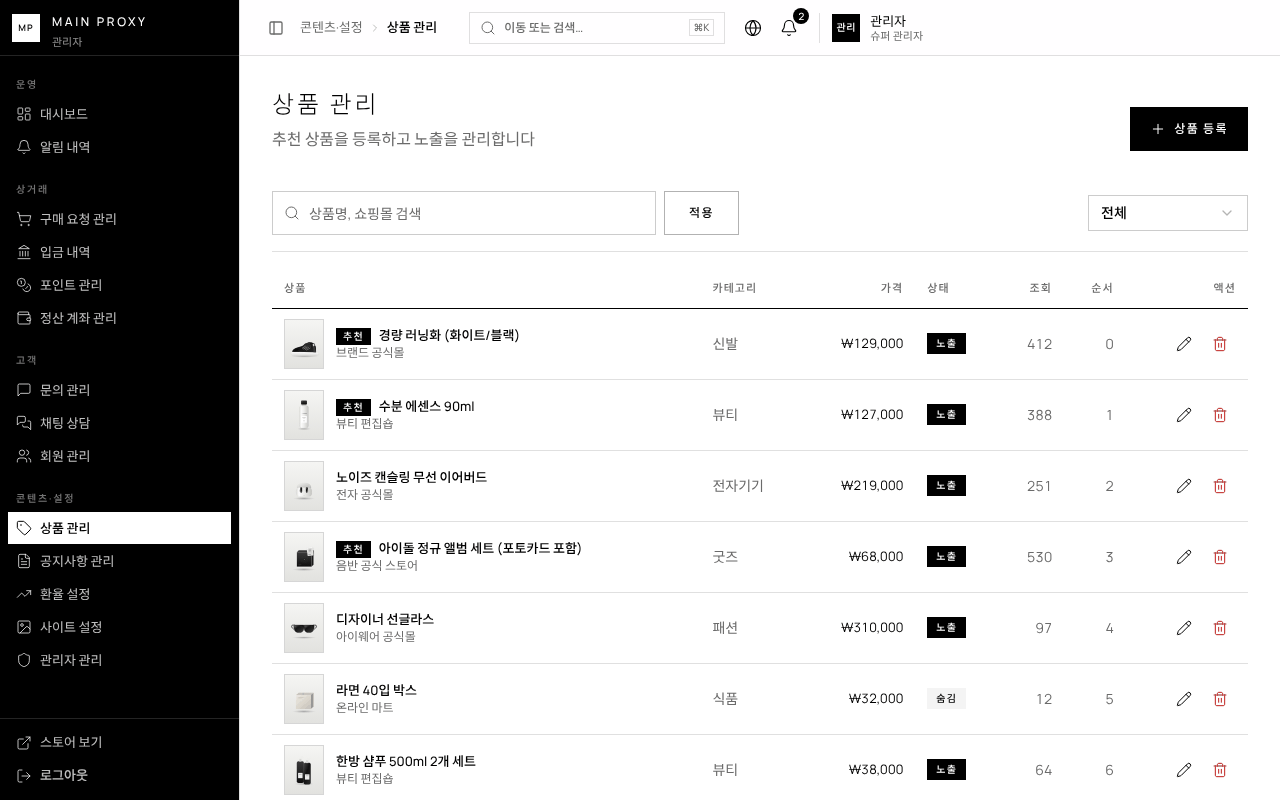
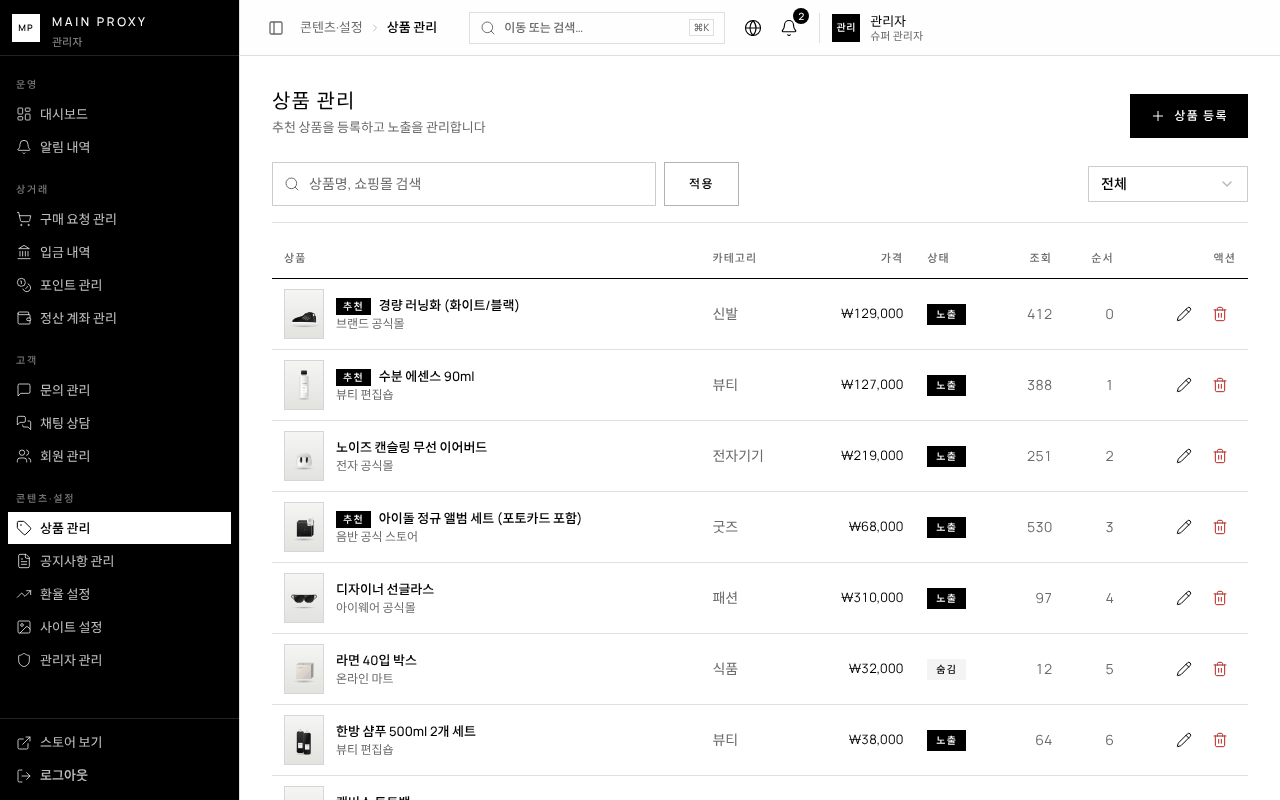
polish: denser console page headers, translated ledger labels, chat timestamps
- Console pages open with a 20px title and a 13px line under it (scoped
  through data-slot hooks on PageHeader and an .admin-console override),
  so lists start higher without touching the storefront's headers
- Deposit ledger: status chips, badges, the type column and the detail
  dialog show translated labels (대기/확정/취소/실패, 입금/정산/환불) in
  ko/ru/en instead of raw enum names
- Chat console: room timestamps follow the locale ("10월 29일 오전 09:12")
  instead of the browser default long form
- README admin screenshots refreshed; E2E smoke 38/38

Claude-Session: https://claude.ai/code/session_014KnJHiZdcZjP839o8GfUbF

diff --git a/front/src/pages/admin/AdminBankTransfers.tsx b/front/src/pages/admin/AdminBankTransfers.tsx
@@ -77,26 +77,31 @@ function isFullyProcessedRoot(e: TransferLedgerEntry): boolean {
 }
 
 /** Pending is an outline, confirmed a black fill, cancelled/failed the destructive outline. */
-function LedgerStatusBadge({ status }: { status: TransferLedgerStatus }) {
-  if (status === "CONFIRMED") return <Badge>{status}</Badge>;
+function LedgerStatusBadge({ status, label }: { status: TransferLedgerStatus; label: string }) {
+  if (status === "CONFIRMED") return <Badge>{label}</Badge>;
   if (status === "CANCELLED" || status === "FAILED") {
     return (
       <Badge variant="outline" className={DESTRUCTIVE_OUTLINE}>
-        {status}
+        {label}
       </Badge>
     );
   }
-  return <Badge variant="outline">{status}</Badge>;
+  return <Badge variant="outline">{label}</Badge>;
 }
 
 export default function AdminBankTransfers() {
   const { t, locale } = useTranslation();
   const isSuper = getAdminRole() === "SUPER_ADMIN";
+  const statusLabel = (status: TransferLedgerStatus) => t(`admin.bank.status.${status}`);
+  const typeLabel = (type: string) => {
+    const label = t(`admin.bank.type.${type}`);
+    return label === `admin.bank.type.${type}` ? type : label;
+  };
   const filterChips: { value: StatusChipValue; label: string }[] = [
     { value: "all", label: t("admin.bank.filterAll") },
-    { value: "PENDING", label: "PENDING" },
-    { value: "CONFIRMED", label: "CONFIRMED" },
-    { value: "CANCELLED", label: "CANCELLED" },
+    { value: "PENDING", label: statusLabel("PENDING") },
+    { value: "CONFIRMED", label: statusLabel("CONFIRMED") },
+    { value: "CANCELLED", label: statusLabel("CANCELLED") },
   ];
   const [rows, setRows] = useState<TransferLedgerEntry[]>([]);
   const [loading, setLoading] = useState(true);
@@ -415,7 +420,7 @@ export default function AdminBankTransfers() {
                   <TableCell className="max-w-[220px] truncate" title={r.userEmail ?? ""}>
                     {r.userEmail ?? "—"}
                   </TableCell>
-                  <TableCell>{r.entryType}</TableCell>
+                  <TableCell>{typeLabel(r.entryType)}</TableCell>
                   <TableCell className="text-right figure">
                     <span className="font-medium">
                       {r.amount.toLocaleString(locale === "en" ? "en-US" : "ko-KR")} {r.currency}
@@ -431,7 +436,7 @@ export default function AdminBankTransfers() {
                   </TableCell>
                   <TableCell>
                     <div className="flex flex-wrap items-center gap-1">
-                      <LedgerStatusBadge status={r.status} />
+                      <LedgerStatusBadge status={r.status} label={statusLabel(r.status)} />
                       {isFullyProcessedRoot(r) ? (
                         <Badge variant="secondary">{t("admin.bank.ledger.processed")}</Badge>
                       ) : null}
@@ -538,7 +543,7 @@ export default function AdminBankTransfers() {
                   {
                     key: "type",
                     label: t("admin.bank.ledger.detail.type"),
-                    value: detail.entryType,
+                    value: typeLabel(detail.entryType),
                   },
                   {
                     key: "amount",
@@ -563,7 +568,7 @@ export default function AdminBankTransfers() {
                   {
                     key: "status",
                     label: t("admin.bank.ledger.detail.status"),
-                    value: <LedgerStatusBadge status={detail.status} />,
+                    value: <LedgerStatusBadge status={detail.status} label={statusLabel(detail.status)} />,
                   },
                   {
                     key: "settlementAccount",

diff --git a/front/src/components/page/PageHeader.tsx b/front/src/components/page/PageHeader.tsx
@@ -21,7 +21,7 @@ type PageHeaderProps = {
 /** Standard page opening: light large title, muted description, actions on the right. */
 export function PageHeader({ title, description, actions, back, meta, align = "start", className }: PageHeaderProps) {
   return (
-    <header className={cn("mb-8 md:mb-10", align === "center" && "text-center", className)}>
+    <header data-slot="page-header" className={cn("mb-8 md:mb-10", align === "center" && "text-center", className)}>
       {back ? (
         <Link
           to={back.to}
@@ -38,9 +38,12 @@ export function PageHeader({ title, description, actions, back, meta, align = "s
         )}
       >
         <div className="min-w-0">
-          <h1 className="page-title">{title}</h1>
+          <h1 data-slot="page-title" className="page-title">{title}</h1>
           {description ? (
-            <p className={cn("mt-2 max-w-2xl text-sm text-muted-foreground md:text-base", align === "center" && "mx-auto")}>
+            <p
+              data-slot="page-description"
+              className={cn("mt-2 max-w-2xl text-sm text-muted-foreground md:text-base", align === "center" && "mx-auto")}
+            >
               {description}
             </p>
           ) : null}

diff --git a/front/src/pages/admin/AdminChat.tsx b/front/src/pages/admin/AdminChat.tsx
@@ -236,7 +236,7 @@ export default function AdminChat() {
                           {t('admin.chat.userLabel')} <span className="figure">#{room.userId}</span>
                         </span>
                         <span className="shrink-0 text-[11px] text-muted-foreground figure">
-                          {new Date(room.updatedAt).toLocaleString()}
+                          {formatDate(room.updatedAt, locale, { month: 'short', day: 'numeric', hour: '2-digit', minute: '2-digit' })}
                         </span>
                       </span>
                       <span className="mt-1 flex items-center justify-between gap-3">

diff --git a/front/src/styles/theme.css b/front/src/styles/theme.css
@@ -276,6 +276,21 @@
   }
 }
 
+/* Console pages open denser than the store: a smaller title, a 13px line under it, less air. */
+.admin-console [data-slot="page-header"] {
+  margin-bottom: 1.5rem;
+}
+.admin-console [data-slot="page-title"] {
+  font-size: 1.25rem;
+  font-weight: 400;
+  letter-spacing: 0.06em;
+  line-height: 1.3;
+}
+.admin-console [data-slot="page-description"] {
+  margin-top: 0.25rem;
+  font-size: 13px;
+}
+
 /* City labels in the hero artwork: hidden on short phones, where the headline takes the whole hero. */
 @utility hero-label {
   @media (max-width: 767px) and (max-height: 720px) {

diff --git a/front/src/components/layouts/AdminLayout.tsx b/front/src/components/layouts/AdminLayout.tsx
@@ -244,7 +244,7 @@ export default function AdminLayout() {
           </div>
         </header>
 
-        <main className="flex-1 overflow-auto">
+        <main className="admin-console flex-1 overflow-auto">
           <div className="mx-auto w-full max-w-7xl px-4 py-6 md:px-8 md:py-8">
             <Outlet />
           </div>
